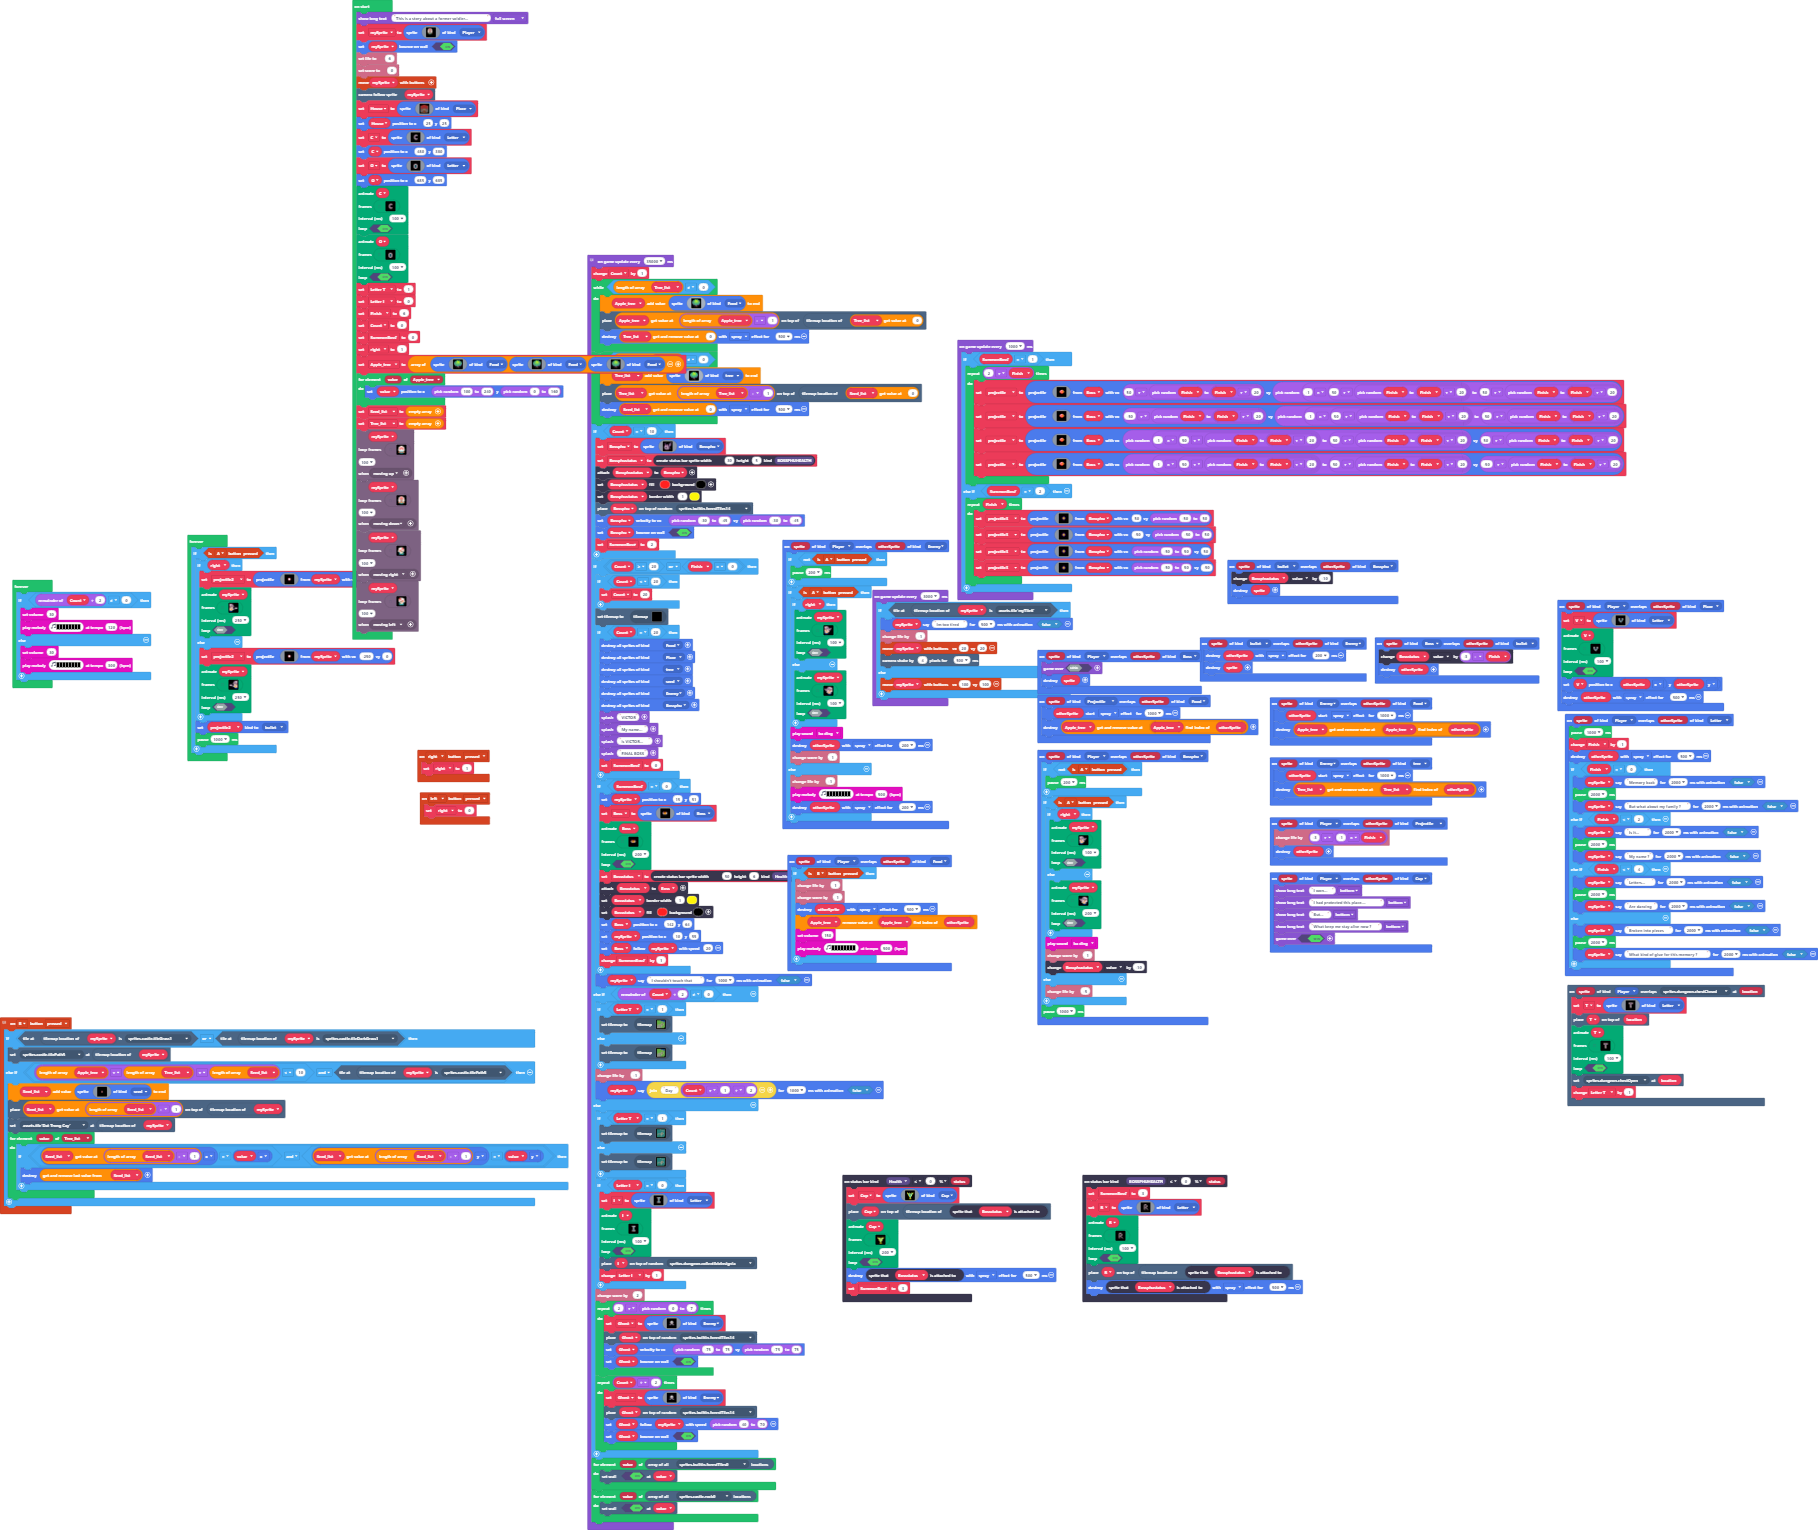
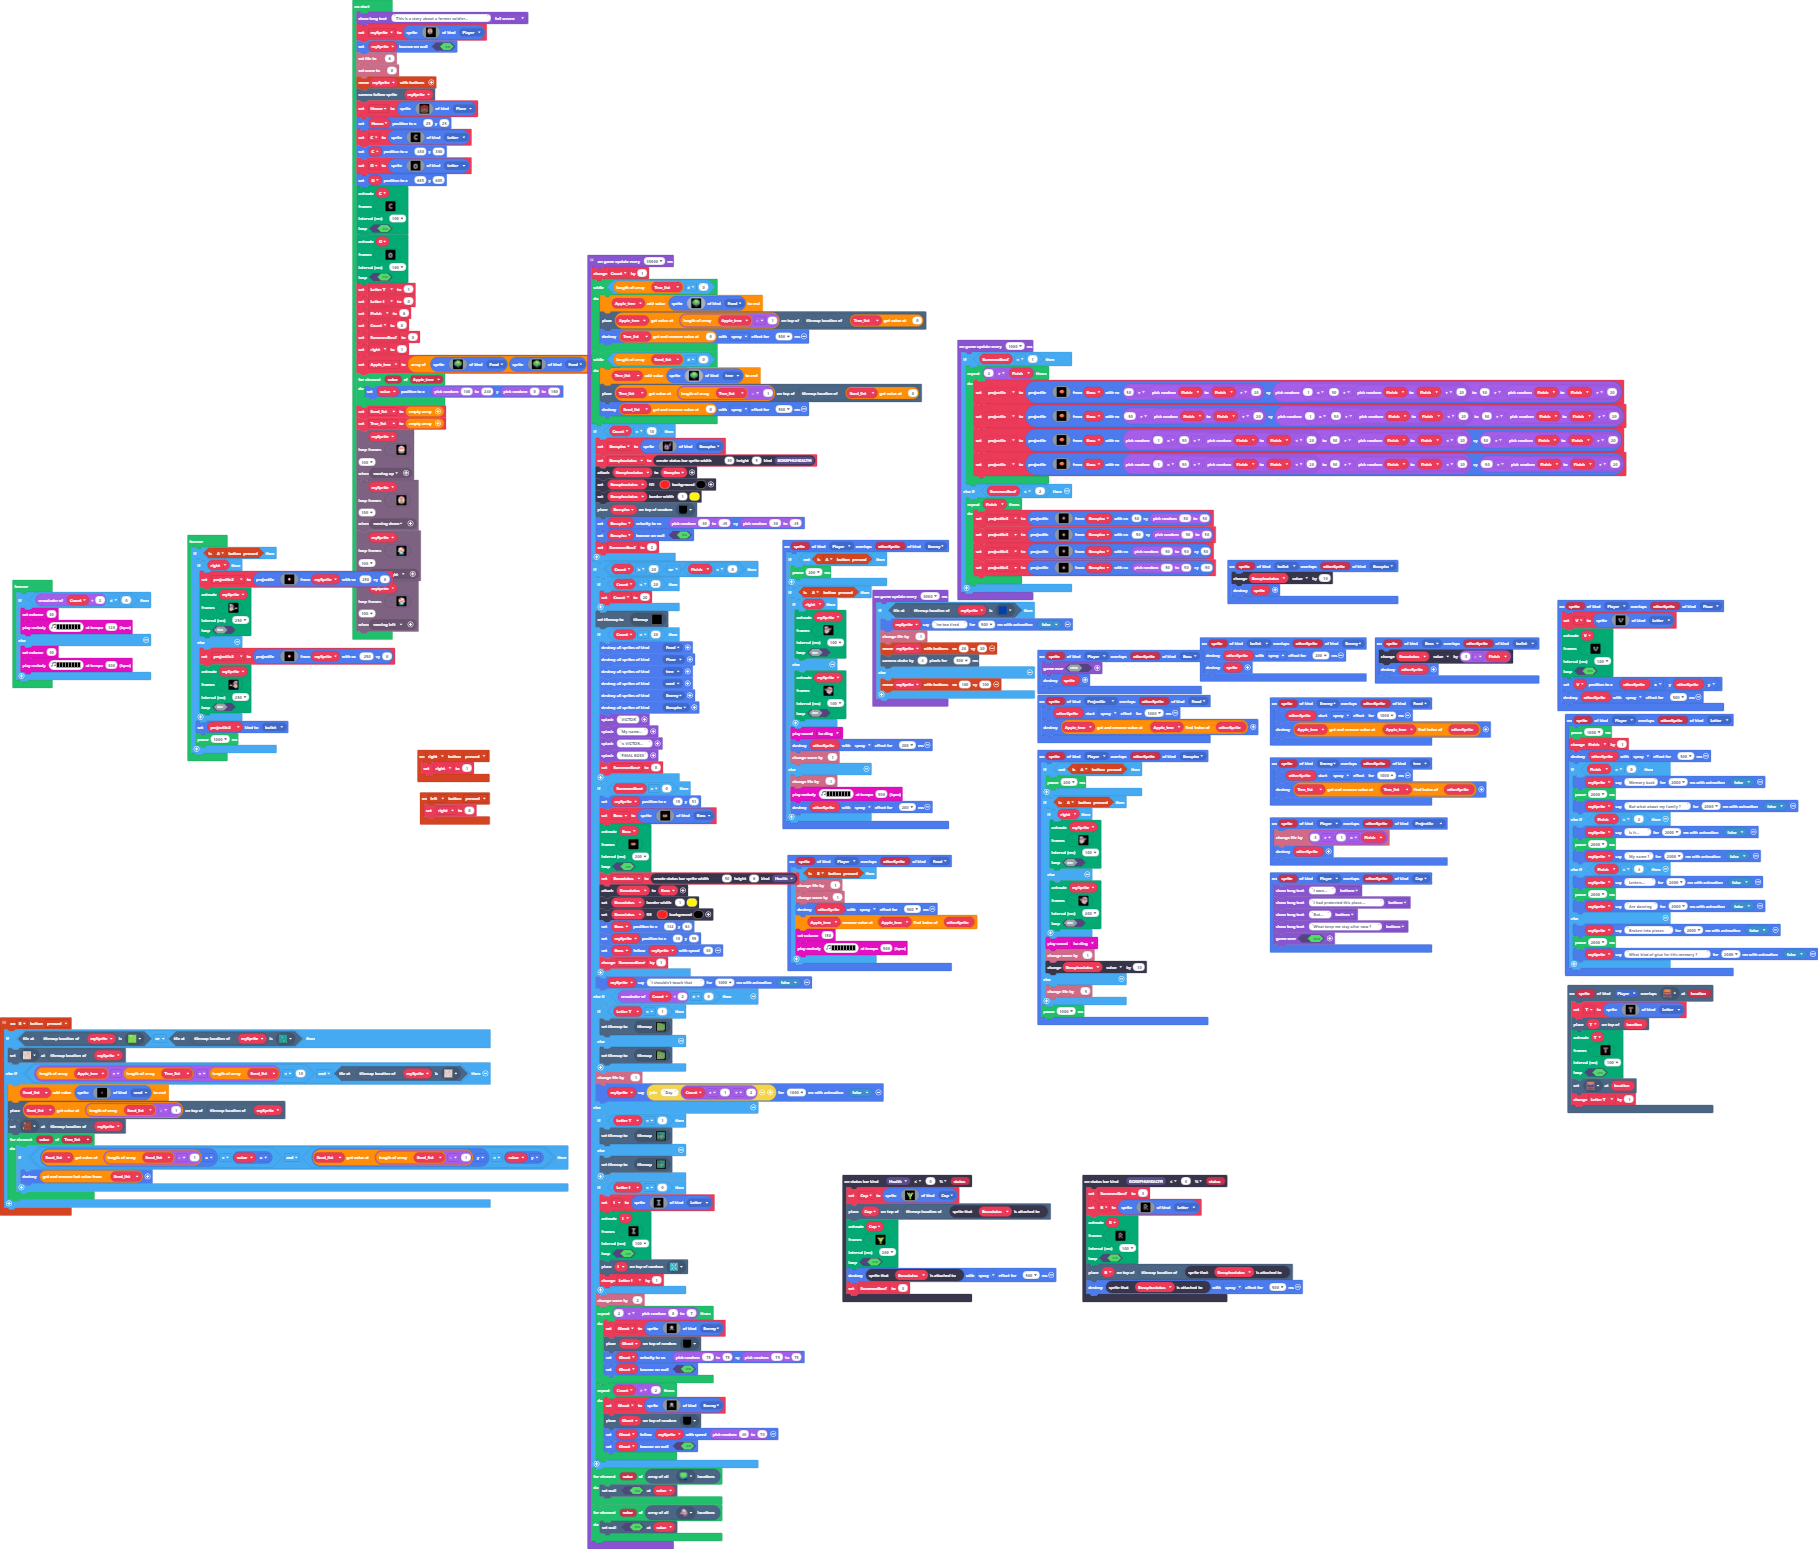
really final update

Changed region(s): [[0.0, 0.0, 1.0, 1.0], [0.2156, 0.4608, 0.2772, 0.5529]]

diff --git a/main.ts b/main.ts
@@ -697,7 +697,7 @@ game.onUpdateInterval(35000, function () {
             Bossstatus.setColor(2, 15)
             Boss.setPosition(142, 64)
             mySprite.setPosition(10, 55)
-            Boss.follow(mySprite, 20)
+            Boss.follow(mySprite, 30)
             SummonBoss += 1
         }
         mySprite.sayText("I shouldn't touch that", 1000, false)
